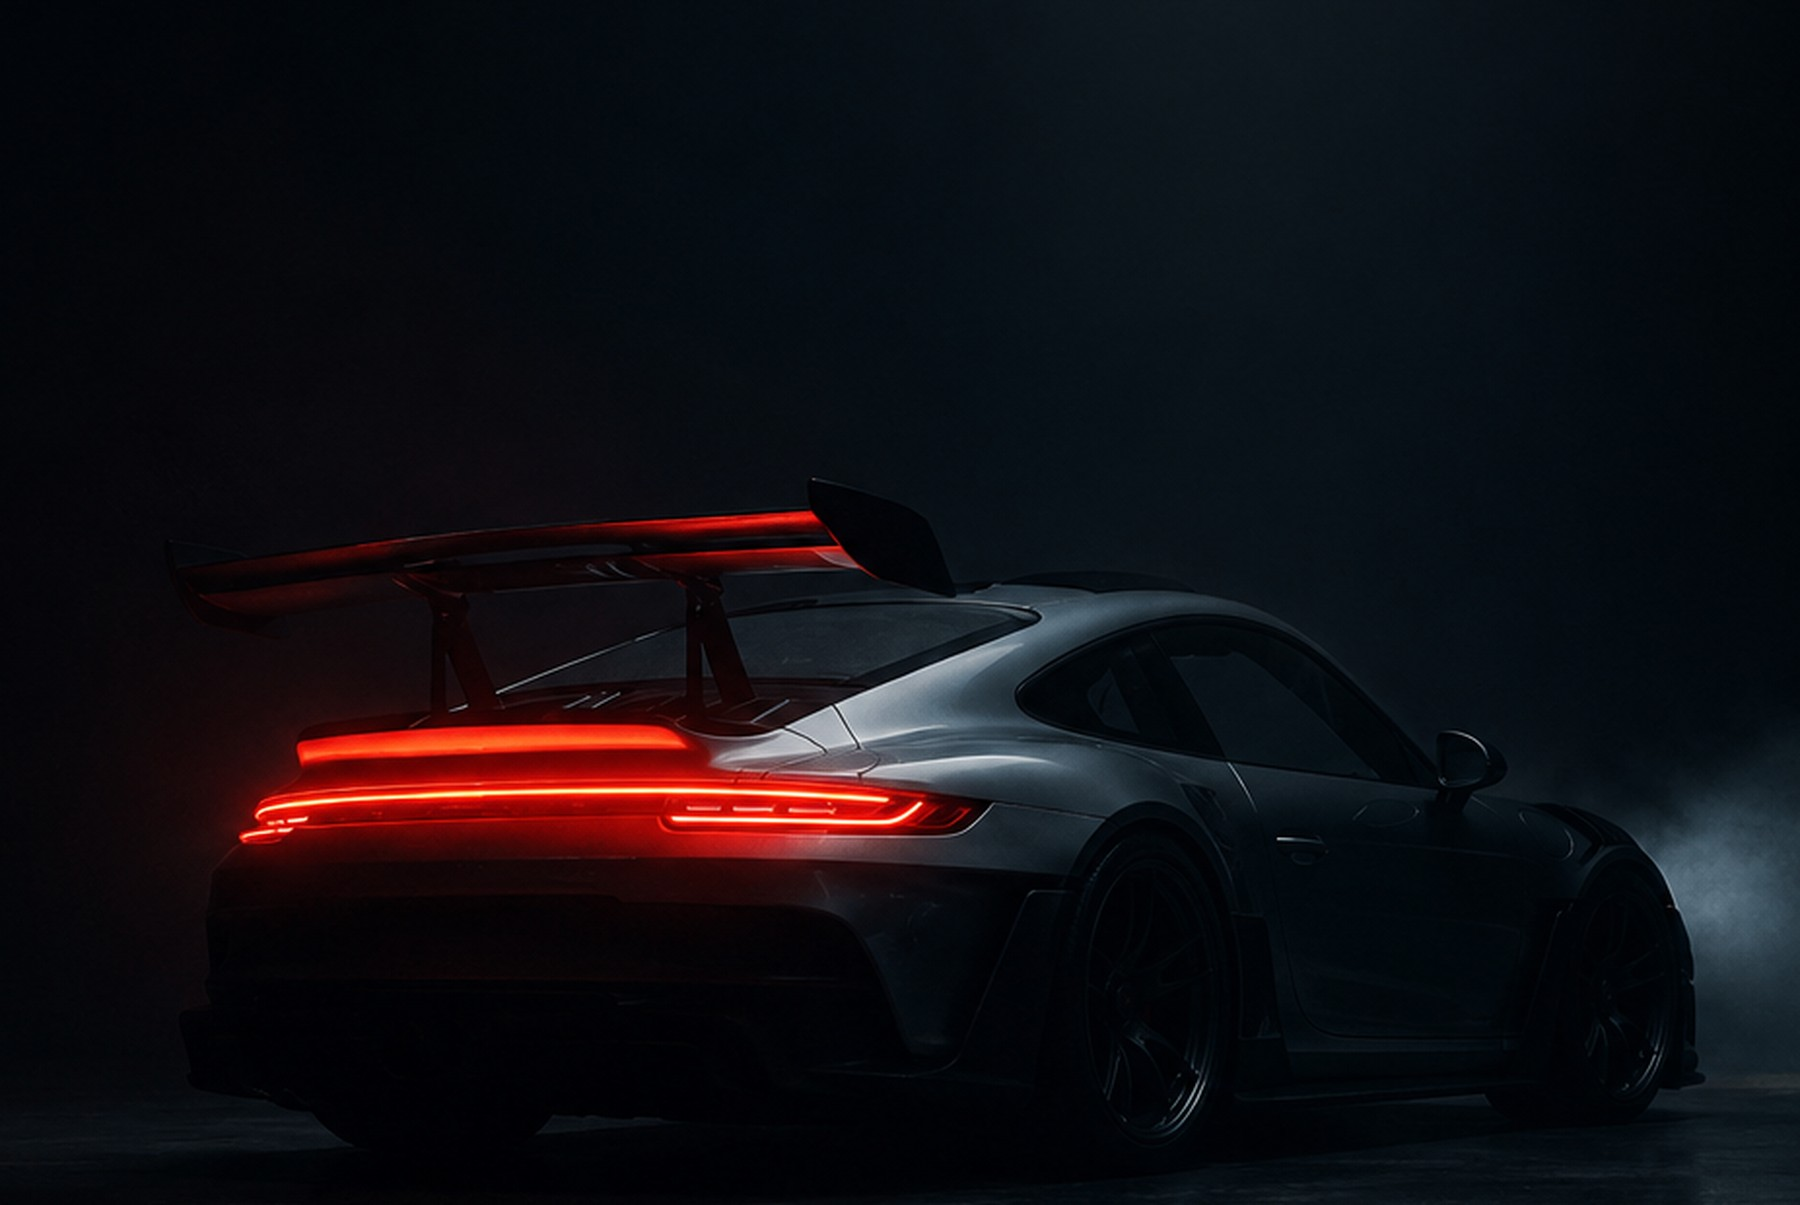
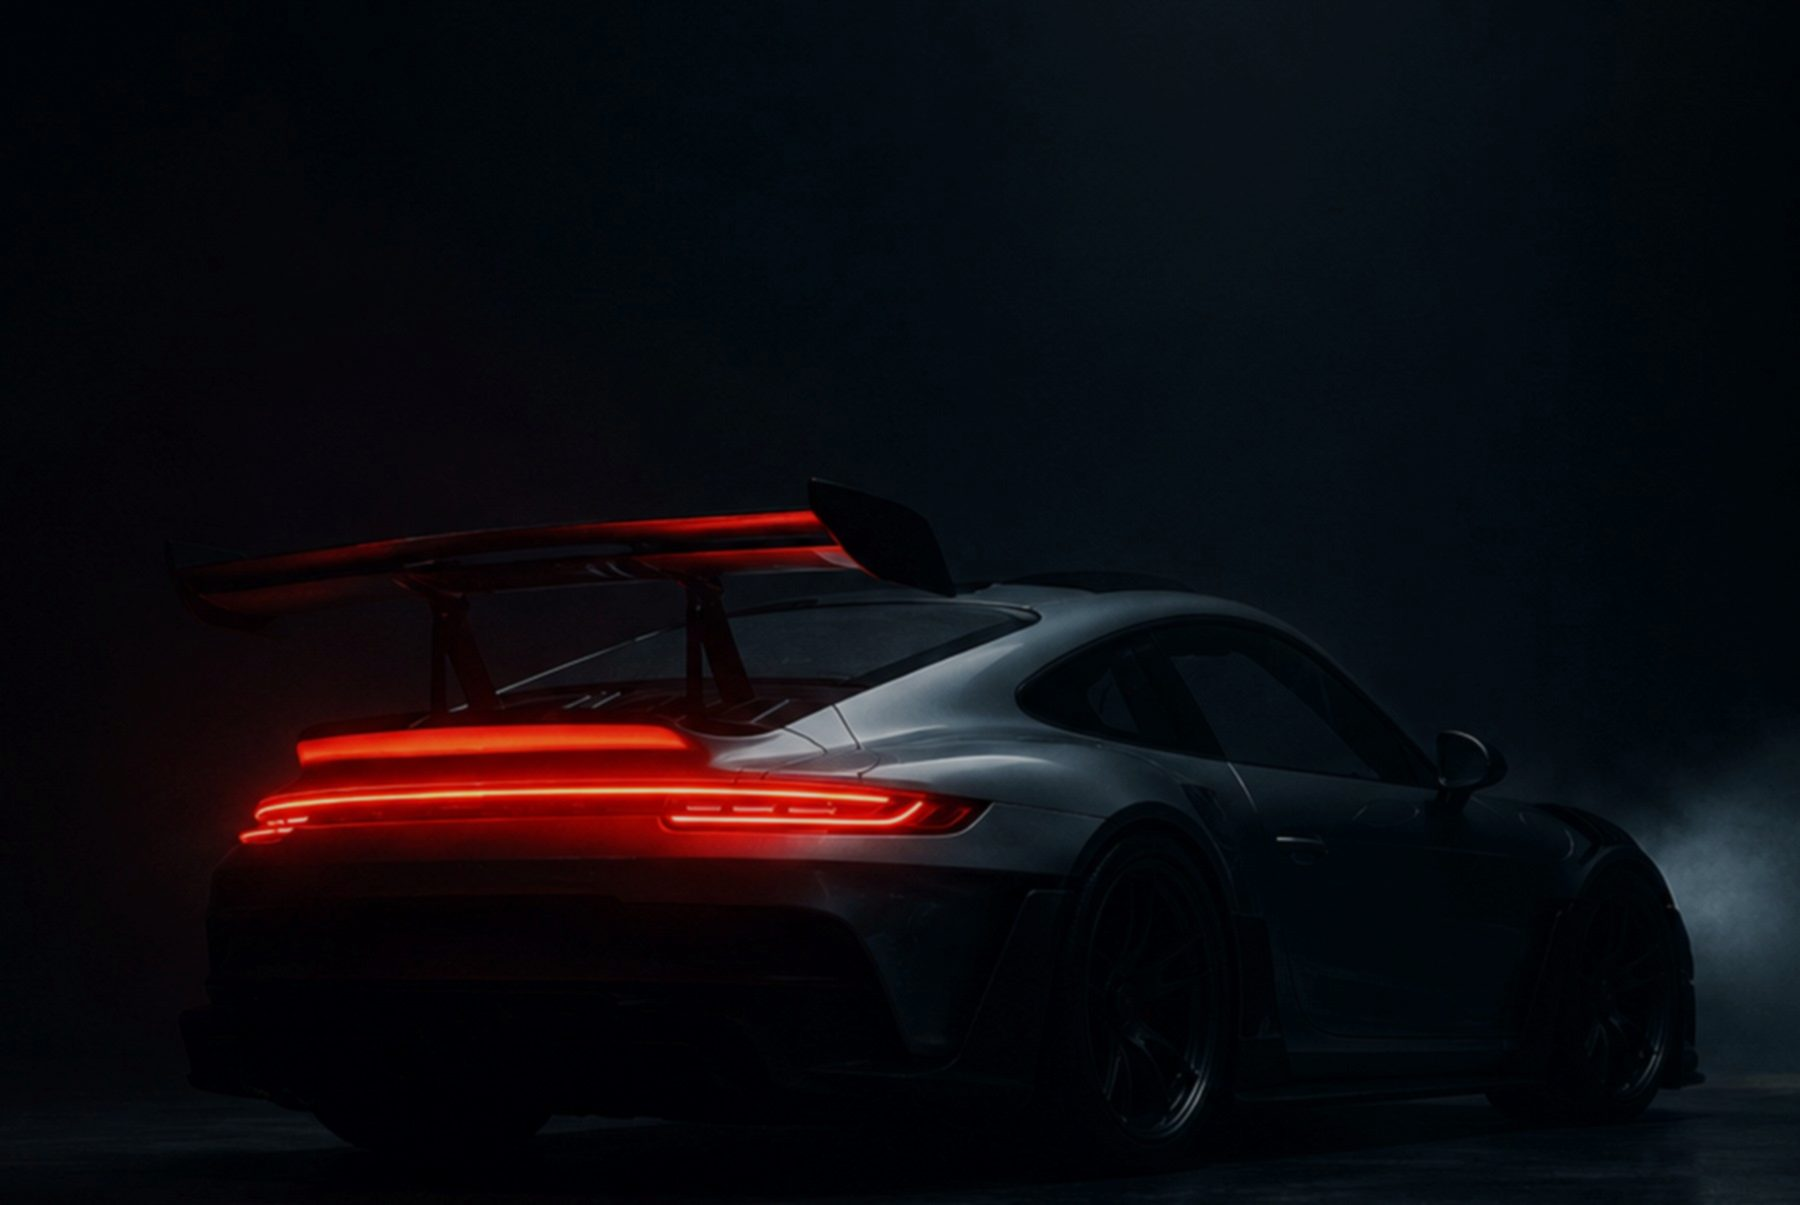
Improve mobile performance: bake hero blur into images, defer offscreen sections
- Pre-blur hero images in PIL instead of a live CSS filter (real paint cost
  on low-end mobile CPUs); also shrinks both JPEGs by ~40-45%
- Drop backdrop-filter on hero stats panel on mobile (<=720px), use a solid
  panel instead since blur-behind is one of the most expensive mobile paints
- Resize logo-icon source (was 126x128 for a 40x40 display size) to 90x91
  per PageSpeed's image-delivery finding
- Lazy-load the two below-the-fold footer logo images
- Add content-visibility:auto + contain-intrinsic-size to every section
  below the hero so the browser skips style/layout/paint work for offscreen
  content on first render, verified with real scroll-through and anchor-jump
  screenshots (not just a resize-based fullPage capture) to rule out gaps

Changed region(s): [[0.1244, 0.5527, 0.56, 0.7062], [0.3733, 0.4299, 0.4667, 0.4606], [0.5289, 0.522, 0.56, 0.5527]]

diff --git a/index.html b/index.html
@@ -287,10 +287,9 @@ h1,h2,h3,h4{ font-family:var(--font-head); font-weight:700; letter-spacing:-.01e
   .hero .lead{ font-size:.98rem; }
 }
 .hero-photo{
-  position:absolute; inset:-2%; z-index:0; pointer-events:none;
+  position:absolute; inset:0; z-index:0; pointer-events:none;
   background-image:url("assets/hero-porsche.jpg");
   background-size:cover; background-position:center 58%; background-repeat:no-repeat;
-  filter:blur(1.1px) brightness(.86) saturate(1.05);
 }
 @media (max-width:640px){ .hero-photo{ background-image:url("assets/hero-porsche-mobile.jpg"); } }
 .hero-dim{
@@ -302,7 +301,7 @@ h1,h2,h3,h4{ font-family:var(--font-head); font-weight:700; letter-spacing:-.01e
     linear-gradient(180deg, rgba(5,6,9,.28) 0%, rgba(5,6,9,.18) 38%, rgba(5,6,9,.68) 100%);
 }
 @media (max-width:640px){
-  .hero-photo{ filter:blur(.9px) brightness(.82) saturate(1.05); background-position:center 52%; }
+  .hero-photo{ background-position:center 52%; }
   .hero-dim{ background:
     radial-gradient(560px 420px at 50% 26%, rgba(3,4,7,.64) 0%, rgba(3,4,7,.36) 50%, transparent 78%),
     radial-gradient(1200px 700px at 15% 115%, rgba(255,106,0,.12), transparent 60%),
@@ -342,7 +341,9 @@ h1,h2,h3,h4{ font-family:var(--font-head); font-weight:700; letter-spacing:-.01e
 .hero-stat{ text-align:center; min-width:0; }
 .hero-stat b{ display:block; font-family:var(--font-head); font-weight:600; font-size:clamp(1.5rem, 1.25rem + 1.1vw, 1.95rem); line-height:1.1; color:#fff; font-variant-numeric:tabular-nums; }
 .hero-stat > span{ display:block; font-size:.92rem; font-weight:500; color:rgba(255,255,255,.68); margin-top:var(--space-2); }
-@media (max-width:720px){ .hero-stats{ grid-template-columns:repeat(2,1fr); row-gap:var(--space-6); padding:var(--space-5) var(--space-4); } }
+@media (max-width:720px){
+  .hero-stats{ grid-template-columns:repeat(2,1fr); row-gap:var(--space-6); padding:var(--space-5) var(--space-4); background:rgba(6,7,12,.78); backdrop-filter:none; -webkit-backdrop-filter:none; }
+}
 
 /* Trust strip */
 .trust-strip{ background:var(--paper-alt); border-block:1px solid var(--border-soft); }
@@ -465,6 +466,27 @@ h1,h2,h3,h4{ font-family:var(--font-head); font-weight:700; letter-spacing:-.01e
 .reveal.is-visible{ opacity:1; transform:translateY(0); }
 .reveal-stagger > *{ transition-delay:calc(var(--i,0) * 70ms); }
 @media (prefers-reduced-motion: reduce){ .reveal{ opacity:1; transform:none; } }
+
+/* Defer offscreen rendering to speed up initial mobile paint */
+.trust-strip, #dlaczego, #jak-to-dziala, #koszty, #opinie, #faq, #kontakt, .footer{ content-visibility:auto; }
+.trust-strip{ contain-intrinsic-size:auto 112px; }
+#dlaczego{ contain-intrinsic-size:auto 844px; }
+#jak-to-dziala{ contain-intrinsic-size:auto 647px; }
+#koszty{ contain-intrinsic-size:auto 1452px; }
+#opinie{ contain-intrinsic-size:auto 710px; }
+#faq{ contain-intrinsic-size:auto 1013px; }
+#kontakt{ contain-intrinsic-size:auto 792px; }
+.footer{ contain-intrinsic-size:auto 500px; }
+@media (max-width:640px){
+  .trust-strip{ contain-intrinsic-size:auto 286px; }
+  #dlaczego{ contain-intrinsic-size:auto 1584px; }
+  #jak-to-dziala{ contain-intrinsic-size:auto 1282px; }
+  #koszty{ contain-intrinsic-size:auto 1553px; }
+  #opinie{ contain-intrinsic-size:auto 708px; }
+  #faq{ contain-intrinsic-size:auto 1159px; }
+  #kontakt{ contain-intrinsic-size:auto 1259px; }
+  .footer{ contain-intrinsic-size:auto 1125px; }
+}
 </style>
 <noscript><style>.reveal{opacity:1 !important;transform:none !important;}.mobile-menu{display:none !important;}</style></noscript>
 </head>
@@ -908,7 +930,7 @@ h1,h2,h3,h4{ font-family:var(--font-head); font-weight:700; letter-spacing:-.01e
       <a class="brand" href="#hero">
         <picture>
         <source srcset="assets/logo-icon.webp" type="image/webp">
-        <img src="assets/logo-icon.png" alt="" width="40" height="40" class="brand-mark">
+        <img src="assets/logo-icon.png" alt="" width="40" height="40" class="brand-mark" loading="lazy" decoding="async">
       </picture>
         <span>Znalezione Sprowadzone</span>
       </a>
@@ -916,7 +938,7 @@ h1,h2,h3,h4{ font-family:var(--font-head); font-weight:700; letter-spacing:-.01e
       <p class="footer-authorized">
         <picture>
           <source srcset="assets/iaa-logo.webp" type="image/webp">
-          <img src="assets/iaa-logo.png" alt="" width="161" height="96" class="footer-iaa-mark">
+          <img src="assets/iaa-logo.png" alt="" width="161" height="96" class="footer-iaa-mark" loading="lazy" decoding="async">
         </picture>
         Autoryzowany oddział IAA Sokołów Podlaski
       </p>
